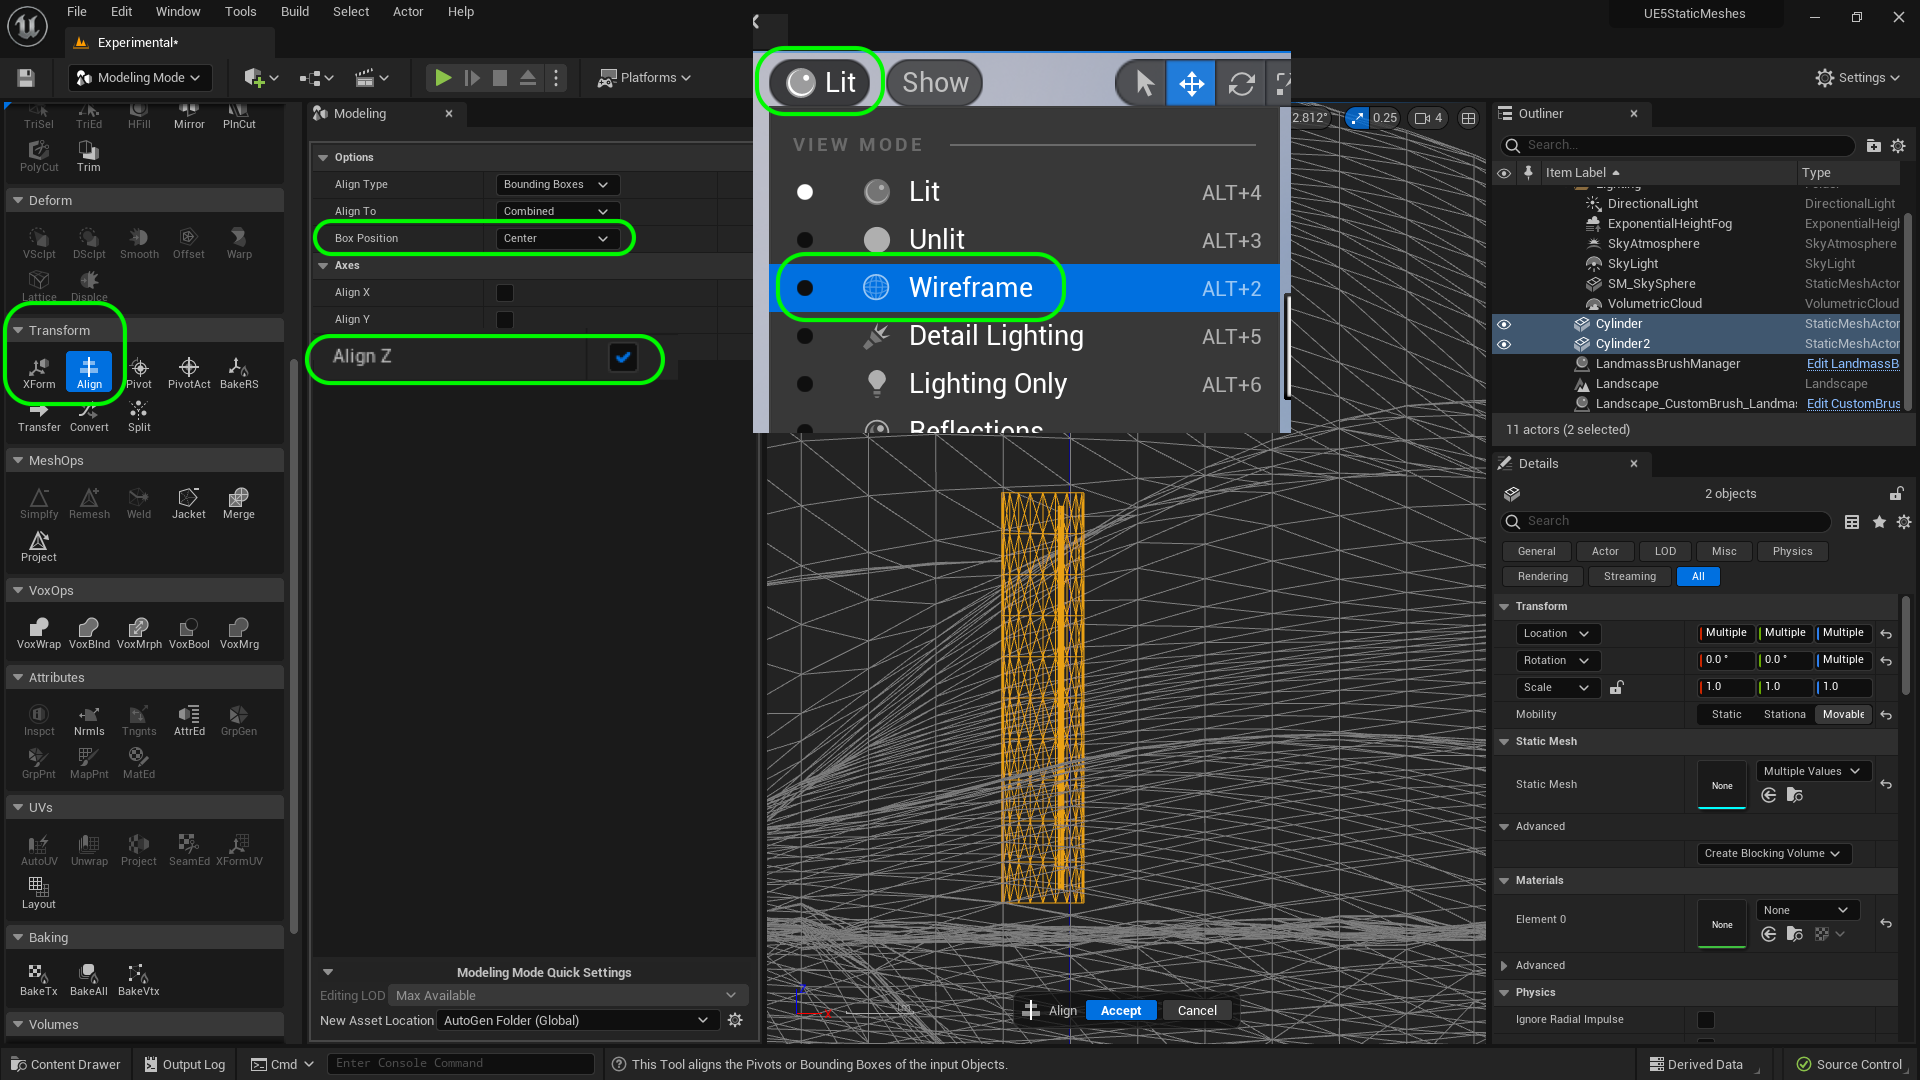
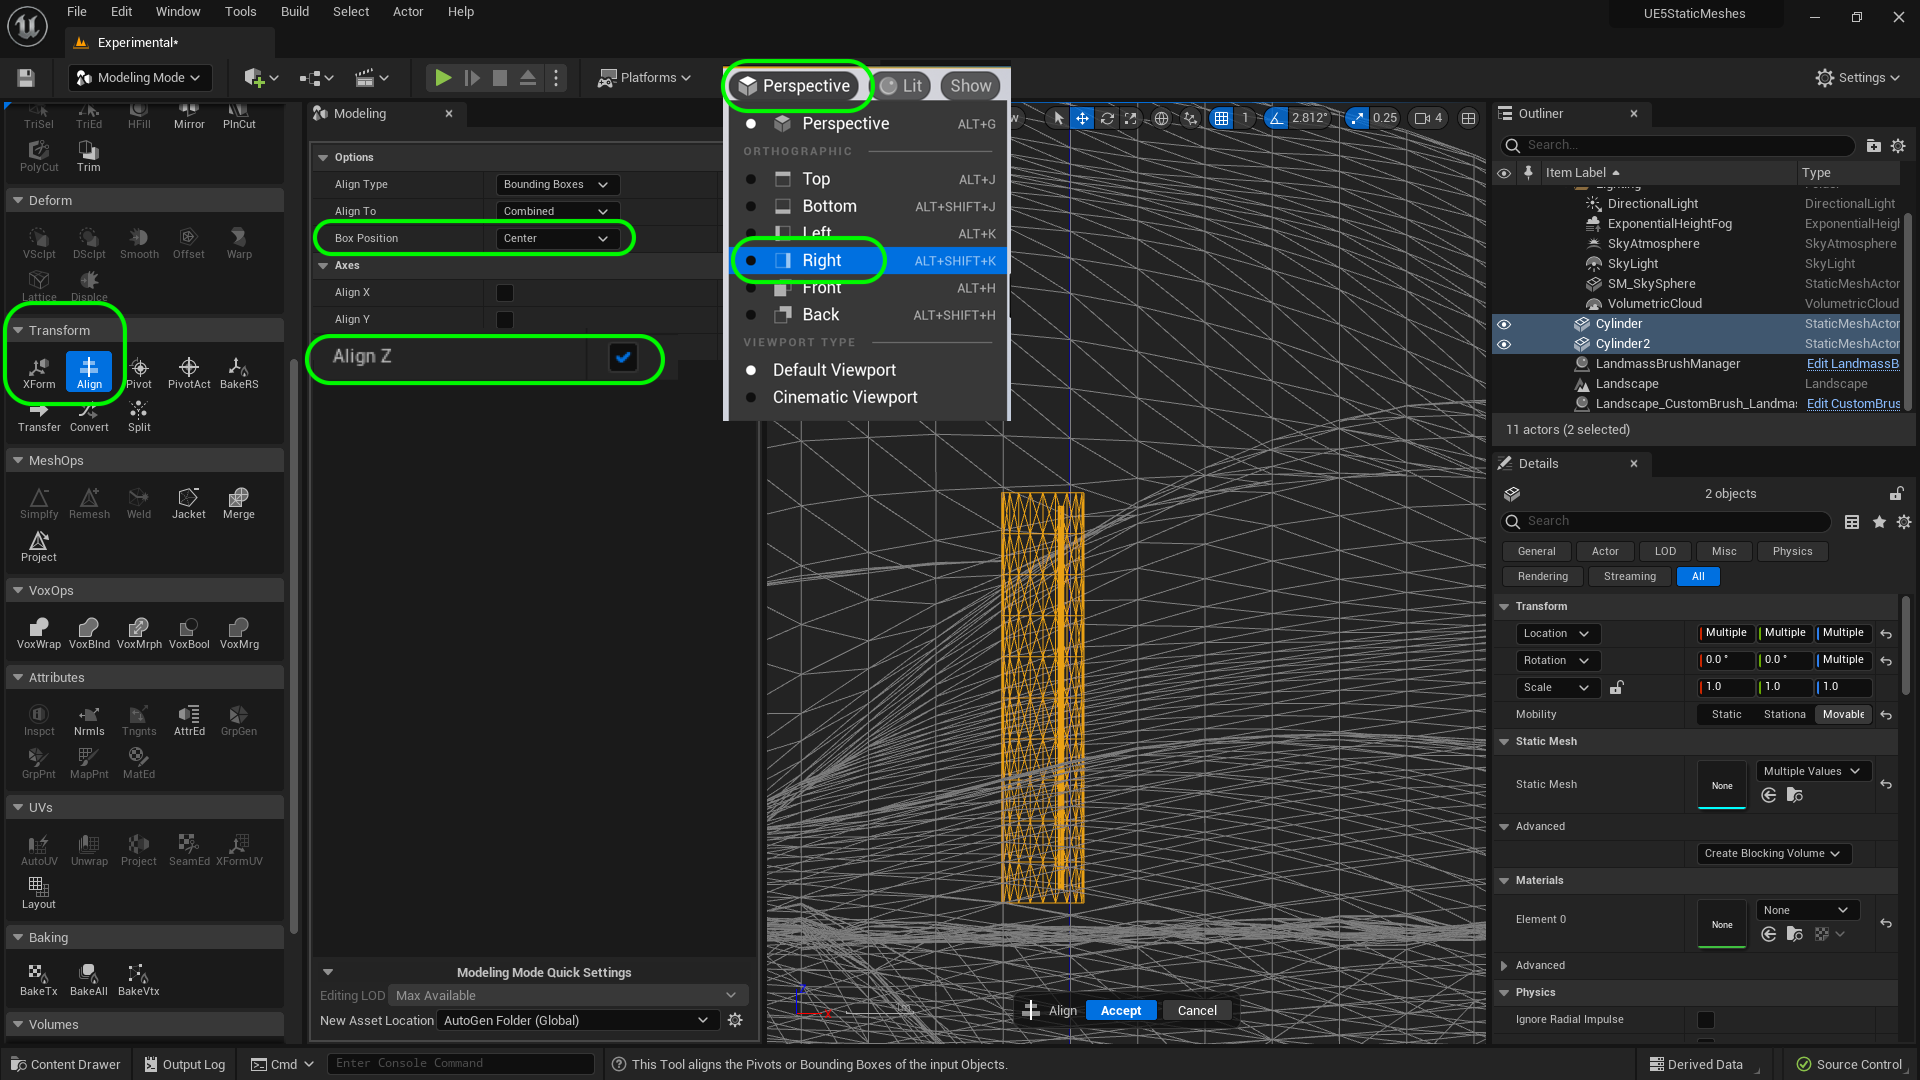
Update to Unreal 5.2

Changed region(s): [[0.375, 0.0306, 0.6875, 0.3972]]

diff --git a/basic-column/README.md b/basic-column/README.md
@@ -146,7 +146,7 @@ Place it in the scene and save it to the **Meshes** directory and press the <kbd
 
 ##### `Step 16.`\|`ITSM`| :large_blue_diamond: :small_orange_diamond:   :small_blue_diamond: 
 
-Lets align the flute vertically with the pillar. Select both pillars and **Transform | Align**.  Make sure you are **ONLY** alighintg the **Z** axis (up and down).  Make sure **Box Position** is in `Center`. Now our posts should be centered vertically. It is easiest to see in **Wireframe** in **Right** viewport to see just the single plane.
+Lets align the flute vertically with the pillar. Select both pillars and **Transform | Align**.  Make sure you are **ONLY** alighintg the **Z** axis (up and down).  Make sure **Box Position** is in `Center`. Now our posts should be centered vertically. It is easiest to see in Wireframe by changing the viewport from **Perspective** to  **Right** and see just the entire scene in wirframe. Now we can see that it is centered.
 
 ![center flute vertically](images/alignVertically.png)
 
